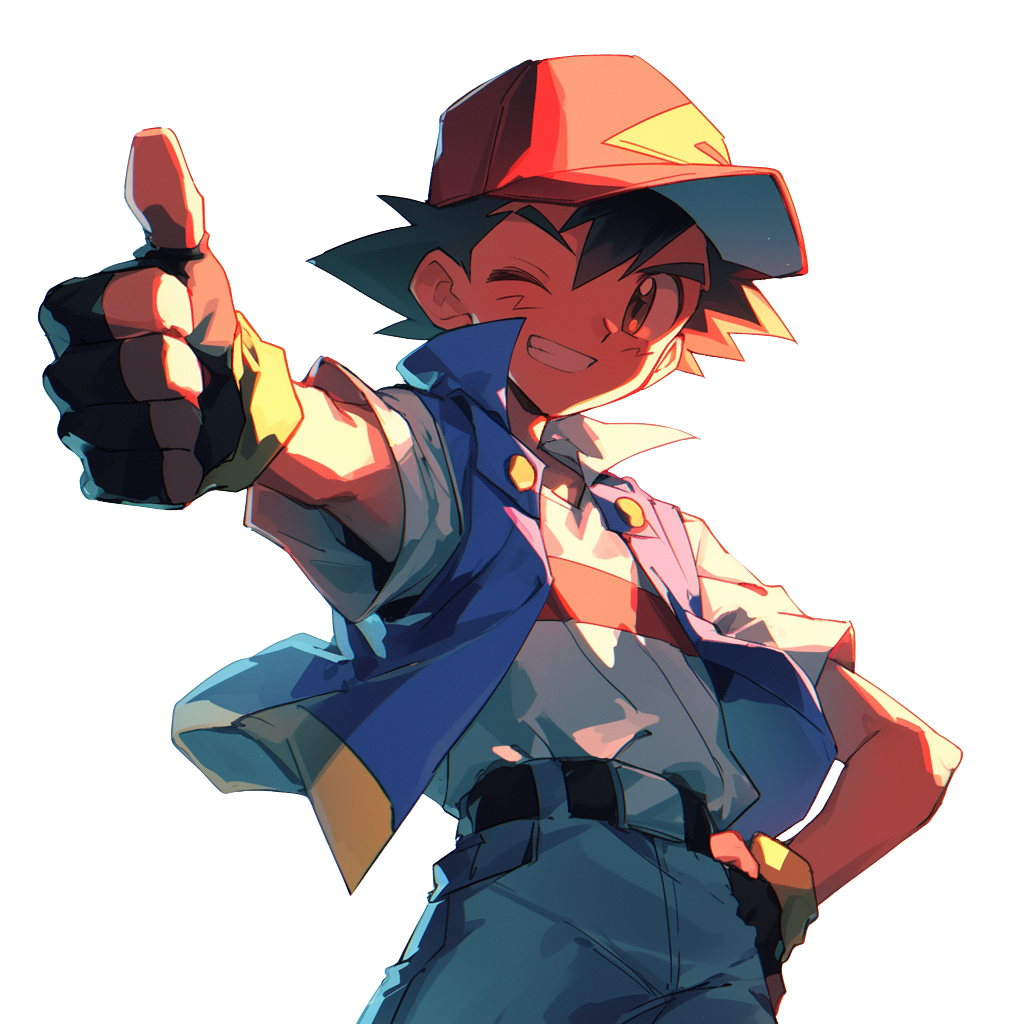
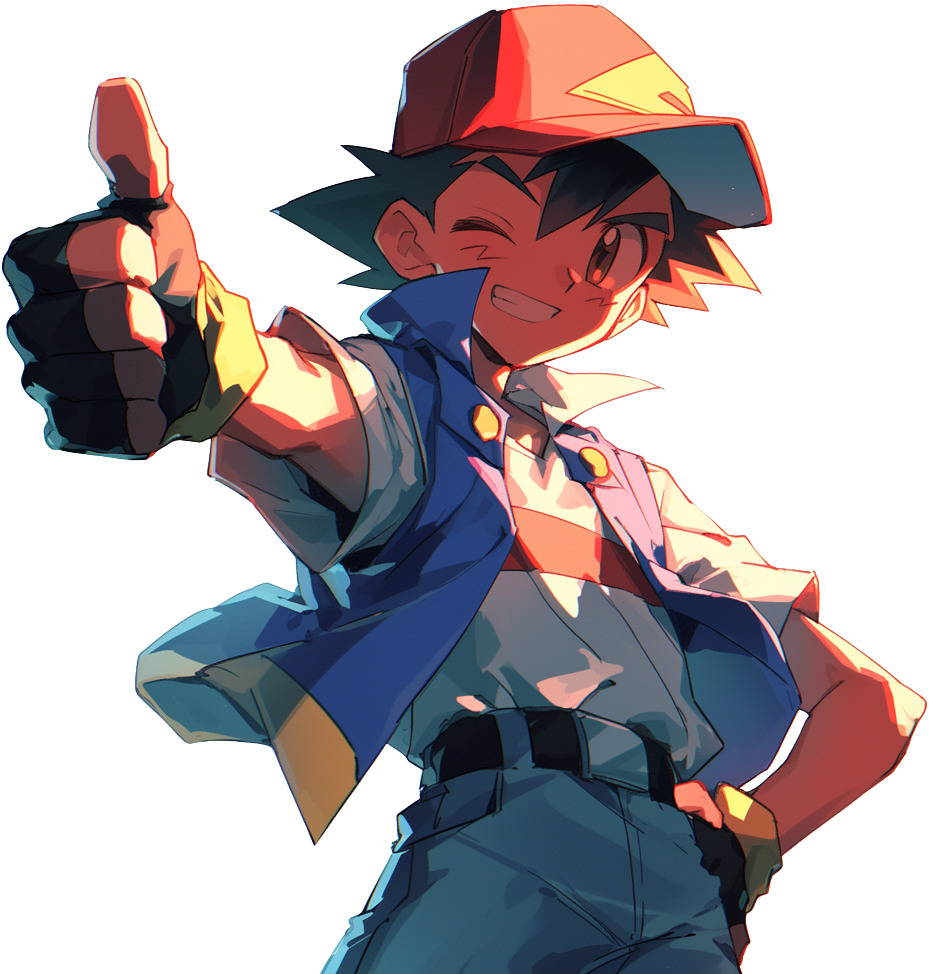
Programm-Freisteller vergroessert, neu beschnittene Quelle
- Bildspalte von clamp(200px,26vw,360px) auf clamp(220px,32vw,460px);
  auf 1440px waechst die Figur damit von 360 auf 460px Breite
- Neu beschnittene Ash.png uebernommen (929x974, nach Alpha-Zuschnitt
  927x970 — gleiche Proportion wie zuvor, das Raster bleibt gueltig)
- Native Groesse 927w ergaenzt: bei 460px Anzeige braucht ein
  Retina-Display 920px, die bisherige 760w waere hochskaliert worden
- sizes von min()/clamp() auf reine Laengen umgestellt (breitere
  Browserunterstuetzung, exaktere Breakpoint-Abbildung)

Geprueft bei 1440/1100/900/375: Abweichung zur Modul-Linie 0.00px,
kein Ueberlauf, keine Kollision mit der Headline (156px Luft bei 1440,
60px bei 900), mobil weiterhin zentriert

diff --git a/index.html b/index.html
@@ -303,7 +303,7 @@
      demselben Betrag nach unten und steht dadurch bündig auf der Linie. */
   #programm{--modgap:clamp(44px,6vw,84px)}
   .prog-head{
-    display:grid; grid-template-columns:minmax(0,1fr) minmax(0,clamp(200px,26vw,360px));
+    display:grid; grid-template-columns:minmax(0,1fr) minmax(0,clamp(220px,32vw,460px));
     column-gap:clamp(28px,4vw,64px); align-items:end;
   }
   .prog-figure{margin:0; align-self:end; margin-bottom:calc(-1 * var(--modgap))}
@@ -421,7 +421,7 @@
       <span class="shot">
         <img src="img/ash-pikachu.jpg"
              srcset="img/ash-pikachu-700.jpg 527w, img/ash-pikachu.jpg 904w"
-             sizes="(max-width:900px) min(92vw, 26rem), clamp(230px,25vw,380px)"
+             sizes="(max-width:400px) calc(100vw - 40px), (max-width:462px) 90vw, (max-width:1000px) 416px, (max-width:1466px) 30vw, 440px"
              width="904" height="1200" fetchpriority="high" decoding="async"
              alt="Ash hält Pikachu eng umarmt, beide mit geschlossenen Augen.">
       </span>
@@ -543,8 +543,8 @@
       </div>
       <figure class="prog-figure rv" style="--d:.2s">
         <picture>
-          <source type="image/webp" srcset="img/ash-thumb-500.webp 500w, img/ash-thumb-760.webp 760w"
-                  sizes="(max-width:860px) min(58vw,240px), clamp(200px,26vw,360px)">
+          <source type="image/webp" srcset="img/ash-thumb-500.webp 500w, img/ash-thumb-760.webp 760w, img/ash-thumb-927.webp 927w"
+                  sizes="(max-width:414px) 58vw, (max-width:860px) 240px, (max-width:1437px) 32vw, 460px">
           <img src="img/ash-thumb-760.png" width="927" height="970" loading="lazy" decoding="async"
                alt="Ash Ketchum zwinkert und hebt den Daumen.">
         </picture>
